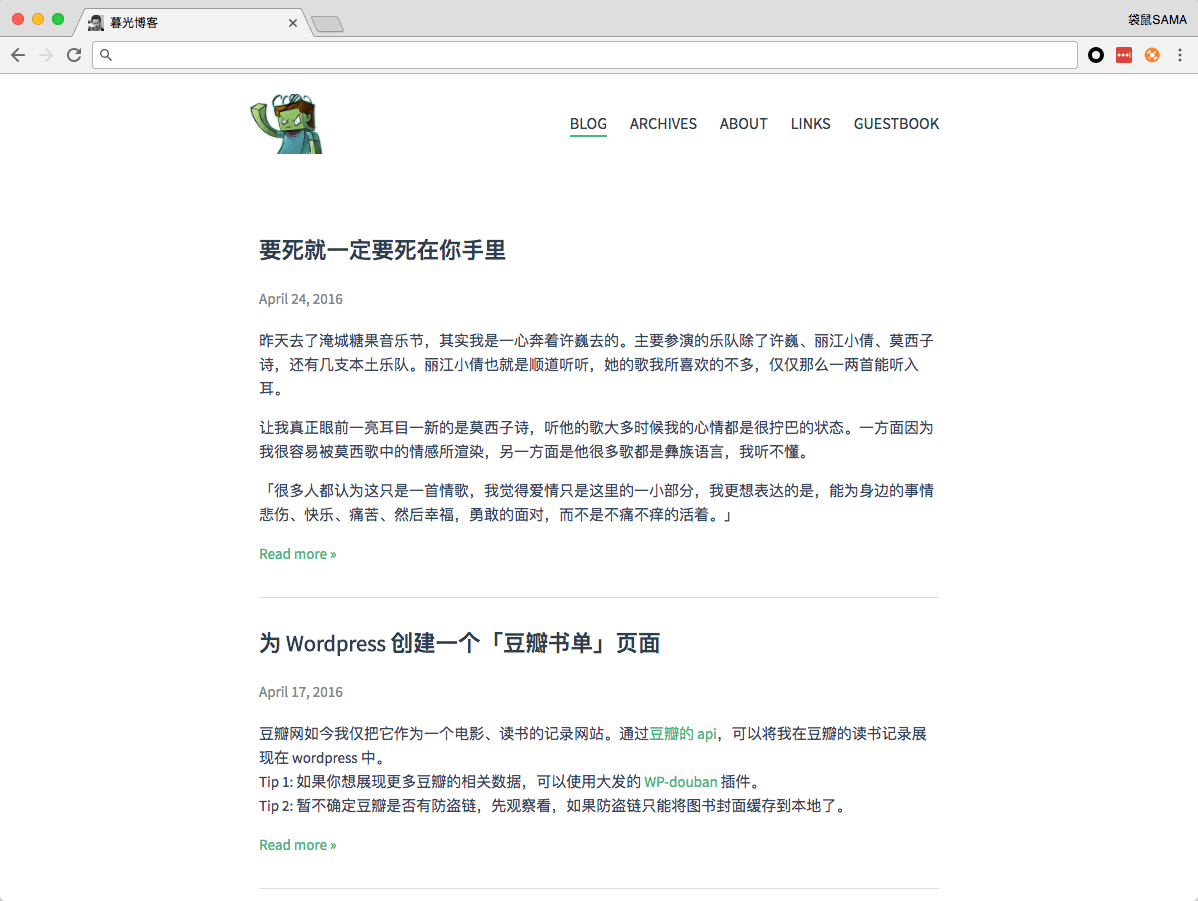
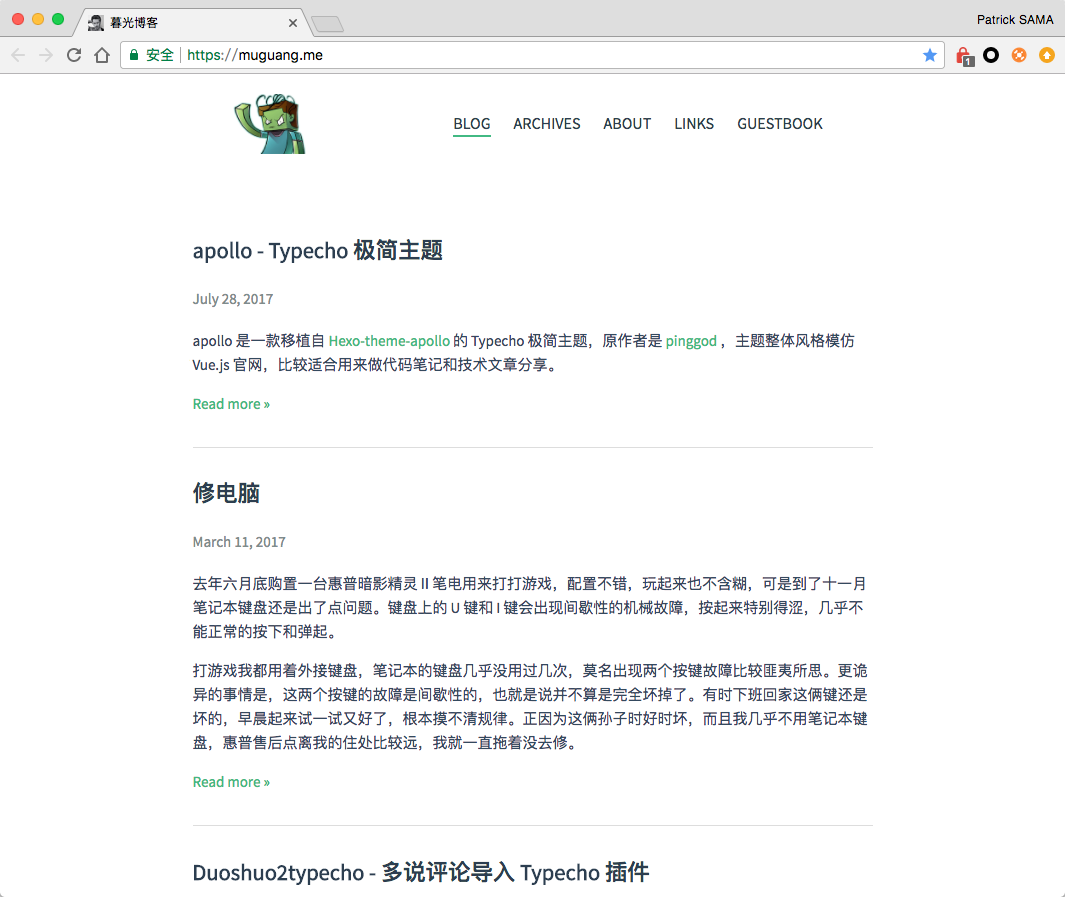
update readme and screenshot

diff --git a/README.md b/README.md
@@ -5,7 +5,13 @@ apollo 是一款移植自 [Hexo-theme-apollo](https://github.com/pinggod/hexo-th
 获得更多关于本主题的信息，请 [点此进入主题发布页](https://muguang.me/php/typecho-theme-apollo.html)
 
 ### 更新历史
-
+- v1.0.2  (2017-08-18)
+    - 移动端h3样式修正
+    - 归档页面bug修复
+- v1.0.1  (2017-08-02)
+    - 修改了 header 部分的 padding 
+    - 修改了 h3 标签的样式
+    - 修复了 code 标签的 margin 缩进问题
 - v1.0.0 （2017-08-01）
     - 支持 InstantClick 预加载
     - 支持 Pangu.js 中英文自动分词
